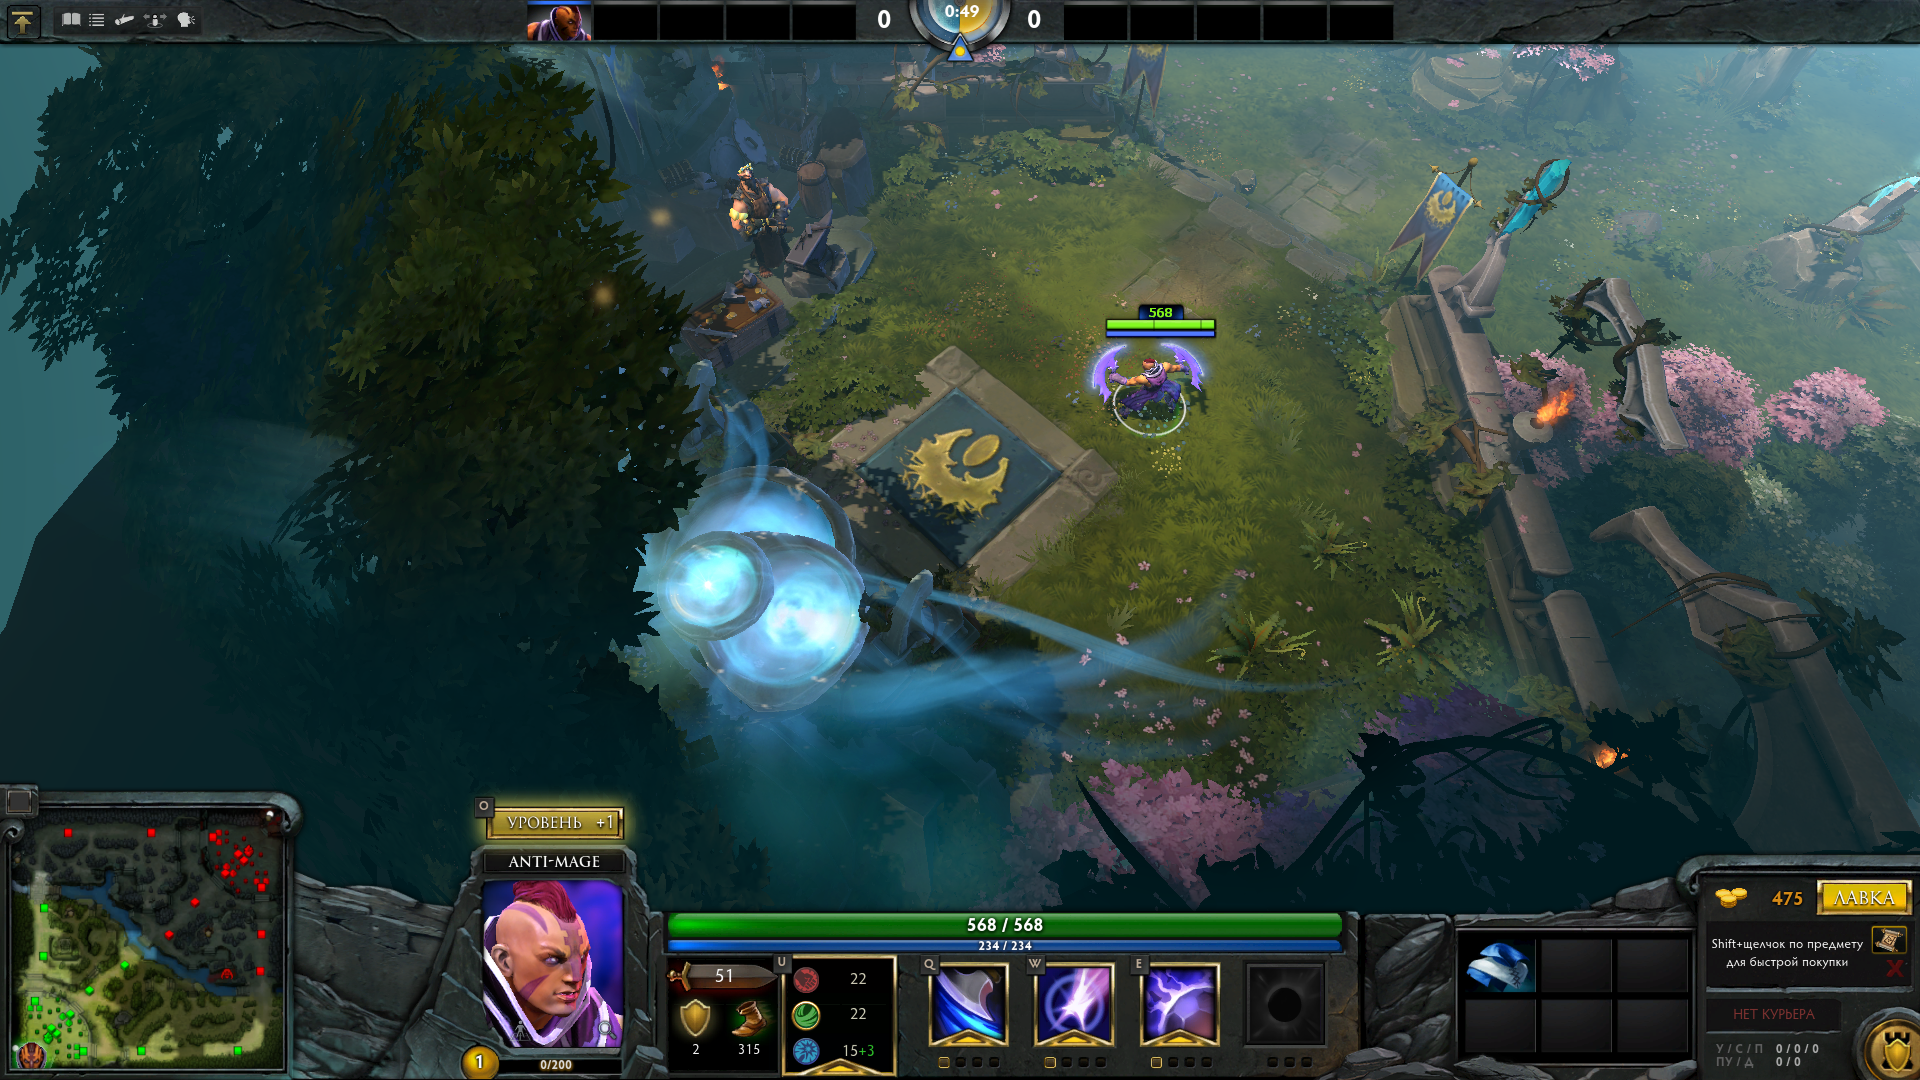
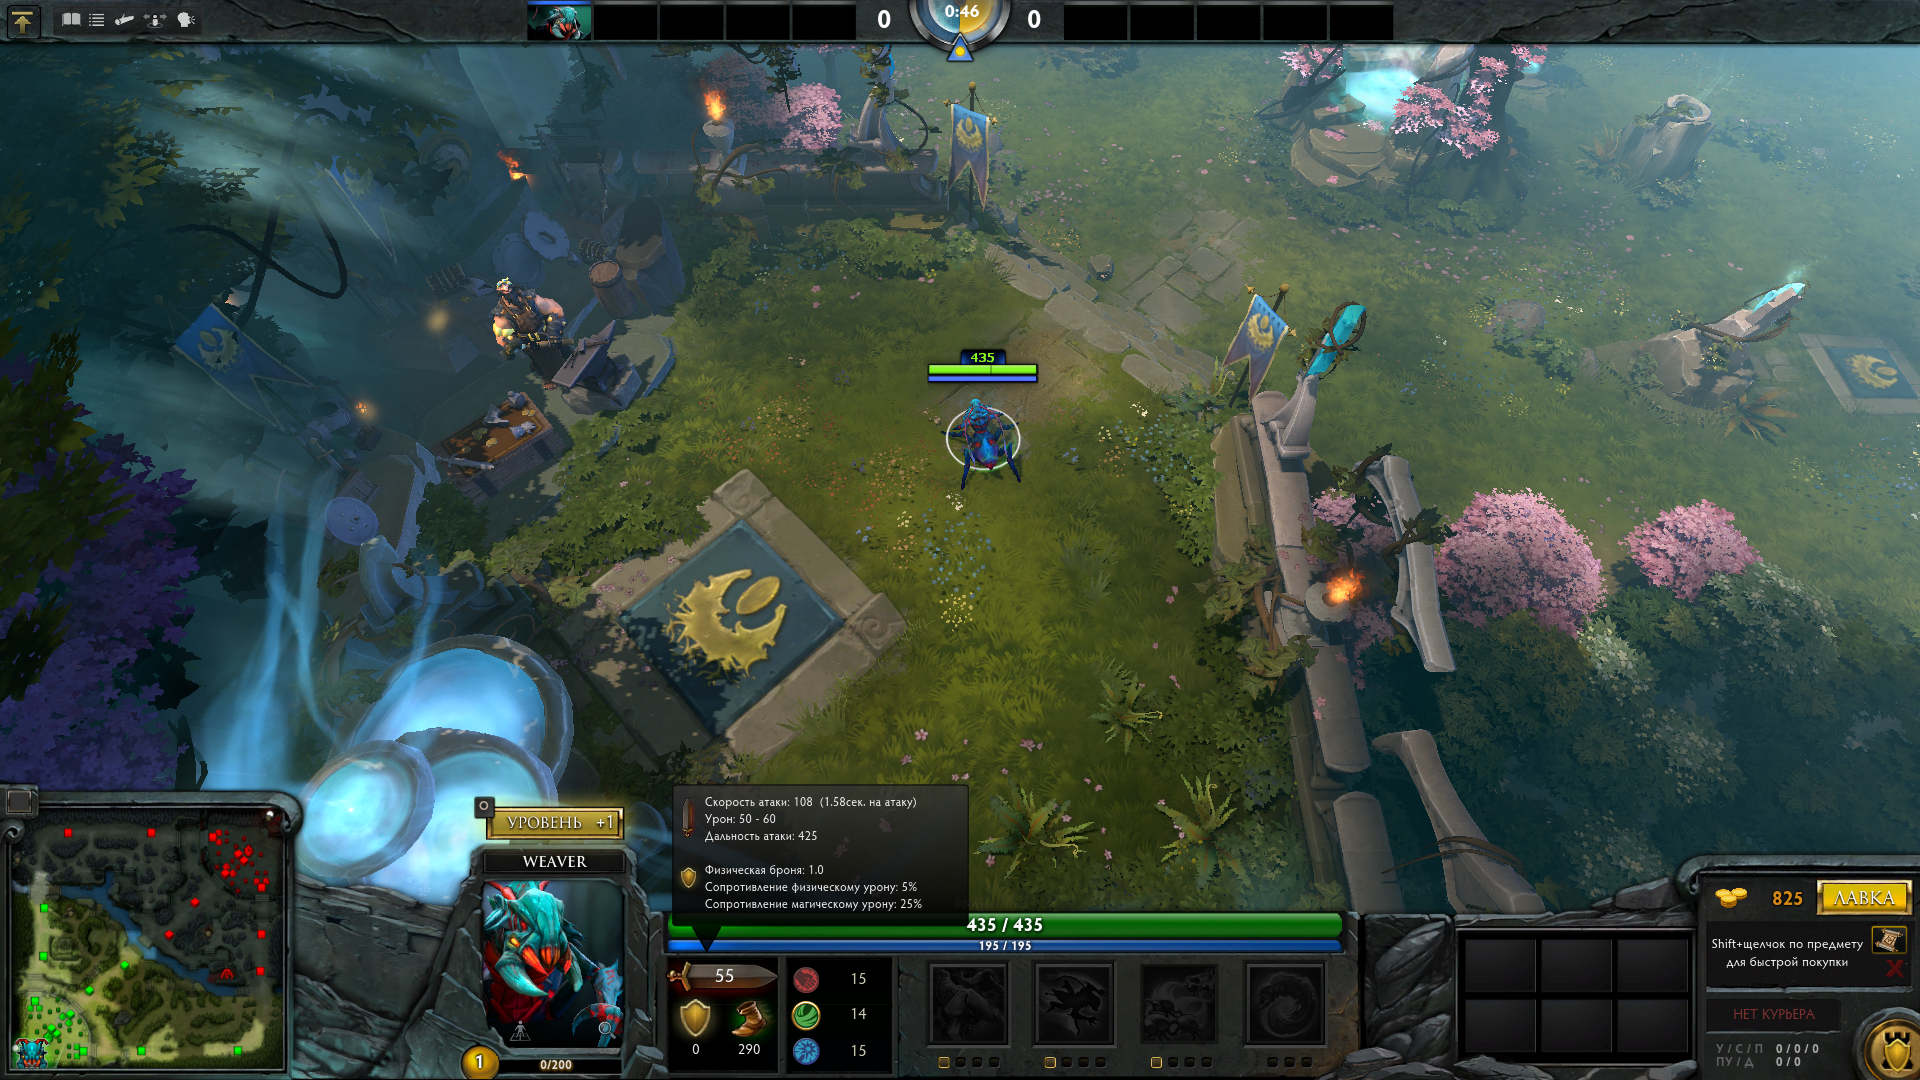
add main tooltip on hover

diff --git a/panorama/scripts/custom_game/actionpanel/tooltips.js b/panorama/scripts/custom_game/actionpanel/tooltips.js
@@ -61,6 +61,18 @@ function Main(){
         agilvl.text = $.Localize("#DOTA_StatTooltip_TotalAttributesSkilled")+lvl;
         intlvl.text = $.Localize("#DOTA_StatTooltip_TotalAttributesSkilled")+lvl;
     };
+    let attackspeed = $.GetContextPanel().GetParent().GetParent().GetParent().FindChildTraverse("MainTooltip").FindChildTraverse('attackspeed');
+    let damage = $.GetContextPanel().GetParent().GetParent().GetParent().FindChildTraverse("MainTooltip").FindChildTraverse('damage');
+    let attackrange = $.GetContextPanel().GetParent().GetParent().GetParent().FindChildTraverse("MainTooltip").FindChildTraverse('attackrange');
+    let armor = $.GetContextPanel().GetParent().GetParent().GetParent().FindChildTraverse("MainTooltip").FindChildTraverse('armor');
+    let physical = $.GetContextPanel().GetParent().GetParent().GetParent().FindChildTraverse("MainTooltip").FindChildTraverse('physical');
+    let magical = $.GetContextPanel().GetParent().GetParent().GetParent().FindChildTraverse("MainTooltip").FindChildTraverse('magical');
+    attackspeed.text = `${$.Localize("#DOTA_DmgArmorTooltip_AttackSpeed")}${(Entities.GetAttackSpeed(unit) * 100).toFixed(0)} (${(1/Entities.GetAttacksPerSecond(unit)).toFixed(2)}${$.Localize("#DOTA_DmgArmorTooltip_AttackSpeedSeconds")})`;
+    damage.text = `${$.Localize("#DOTA_DmgArmorTooltip_AttackDamage")}${Entities.GetDamageMin(unit)} - ${Entities.GetDamageMax(unit)}`;
+    attackrange.text = `${$.Localize("#DOTA_DmgArmorTooltip_AttackRange")}${Entities.GetAttackRange(unit)}`;
+    armor.text = `${$.Localize("#DOTA_DmgArmorTooltip_Armor")}${Entities.GetPhysicalArmorValue(unit).toFixed(1)}`;
+    physical.text = `${$.Localize("#DOTA_DmgArmorTooltip_DmgResist")}${(100*((0.06*Entities.GetPhysicalArmorValue(unit))/(1+0.06*Entities.GetPhysicalArmorValue(unit)))).toFixed(0)}%`;
+    magical.text = `${$.Localize("#DOTA_DmgArmorTooltip_MagicDmgResist")}${Entities.GetBaseMagicalResistanceValue(unit).toFixed(0)}%`;
     $.Schedule(Game.GetGameFrameTime(), Main)
 }
 Main()

diff --git a/panorama/styles/custom_game/actionpanel/tooltips.css b/panorama/styles/custom_game/actionpanel/tooltips.css
@@ -1,4 +1,4 @@
-#Contents.StrengthTooltip {flow-children: down;}
+#Contents.StrengthTooltip,#Contents.AgilityTooltip,#Contents.IntellectTooltip,#Contents.MainTooltip {flow-children: down;}
 #stricon,#agiicon,#inticon {
     width: 32px;
     height: 32px;
@@ -10,3 +10,11 @@
 #strperlvl,#agiperlvl,#intperlvl{color: #c5c5c5; position: 25px 45px 0px; font-family: Tahoma; font-size: 15px;}
 #attrlvl{color: #c5c5c5; position: 25px 85px 0px; font-family: Tahoma; font-size: 15px;}
 #attmain{width: 32px; height: 32px; visibility: collapse; position: -10px -15px 0px;}
+#damageicon{width: 15px; height: 45px; position: -6.5px -5px 0px;}
+#attackspeed{color: #c5c5c5; position: 20px -5px 0px; font-family: Tahoma; font-size: 14px;}
+#damage{color: #c5c5c5; position: 20px 12px 0px; font-family: Tahoma; font-size: 14px;}
+#attackrange{color: #c5c5c5; position: 20px 30px 0px; font-family: Tahoma; font-size: 14px;}
+#armoricon{width: 35px; height: 35px; position: -15px 60px 0px;}
+#armor{color: #c5c5c5; position: 20px 60px 0px; font-family: Tahoma; font-size: 14px;}
+#physical{color: #c5c5c5; position: 20px 80px 0px; font-family: Tahoma; font-size: 14px;}
+#magical{color: #c5c5c5; position: 20px 100px 0px; font-family: Tahoma; font-size: 14px;}

diff --git a/panorama/styles/custom_game/actionpanel/stats.css b/panorama/styles/custom_game/actionpanel/stats.css
@@ -26,6 +26,7 @@
 	z-index: 3;
 }
 #AttributeBonus{width: 118px; height: 115px; vertical-align: bottom; horizontal-align: right; position: -6px 0px 0px; background-image: url("s2r://panorama/images/hud/learnspell_png.vtex"); background-repeat: no-repeat; background-size: 100% 100%; visibility: collapse; z-index: 2;}
+#MainTooltip{width: 110px; height: 110px; position: 5px 0px 0px; z-index: 3;}
 #damageicon{position: -3px -8px 0px; width: 155px; height: 55px;}
 #damagetext{color: #ffffff; font-size: 16px; position: -28px 1.25px 0px; horizontal-align: center; vertical-align: center;}
 #damagetextbonus{color: #00ff15; font-size: 16px; position: 60px 18.9px 0px;}

diff --git a/panorama/scripts/custom_game/inventory/itemslot.js b/panorama/scripts/custom_game/inventory/itemslot.js
@@ -37,7 +37,7 @@ var ItemPanel = (function () {
         panel.GetContentsPanel().SetAttributeInt("itemID", this.item);
     };
 	ItemPanel.prototype.onLeftClick = function () {
-        Abilities.ExecuteAbility(this.item, this.unit, false);
+        if (GameUI.IsAltDown()) {Abilities.PingAbility(this.item);} else {Abilities.ExecuteAbility(this.item, this.unit, false);};
     };
     ItemPanel.prototype.onDragStart = function (panelID, dragCallbacks) {
         DragDropChek = false

diff --git a/panorama/styles/custom_game/test.css b/panorama/styles/custom_game/test.css
@@ -1,3 +1,3 @@
 .test{width: 1920px; height: 1080px; z-index: 2;}
 /* #test{width: 1920px; height: 1080px; visibility: visible; opacity: 0.5;} */
-#test{width: 100%; height: 100%; visibility: collapse;}
+/* #test{width: 100%; height: 100%; visibility: collapse;} */
